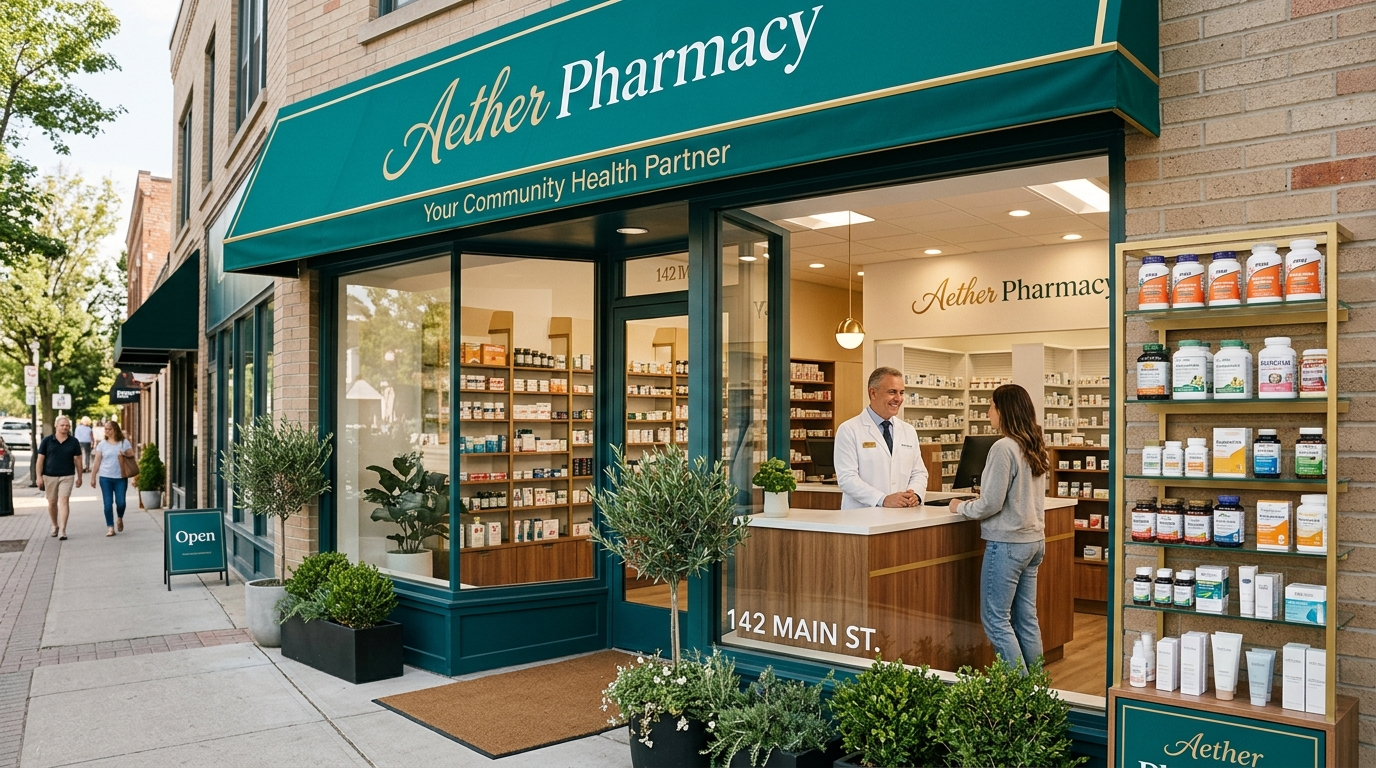
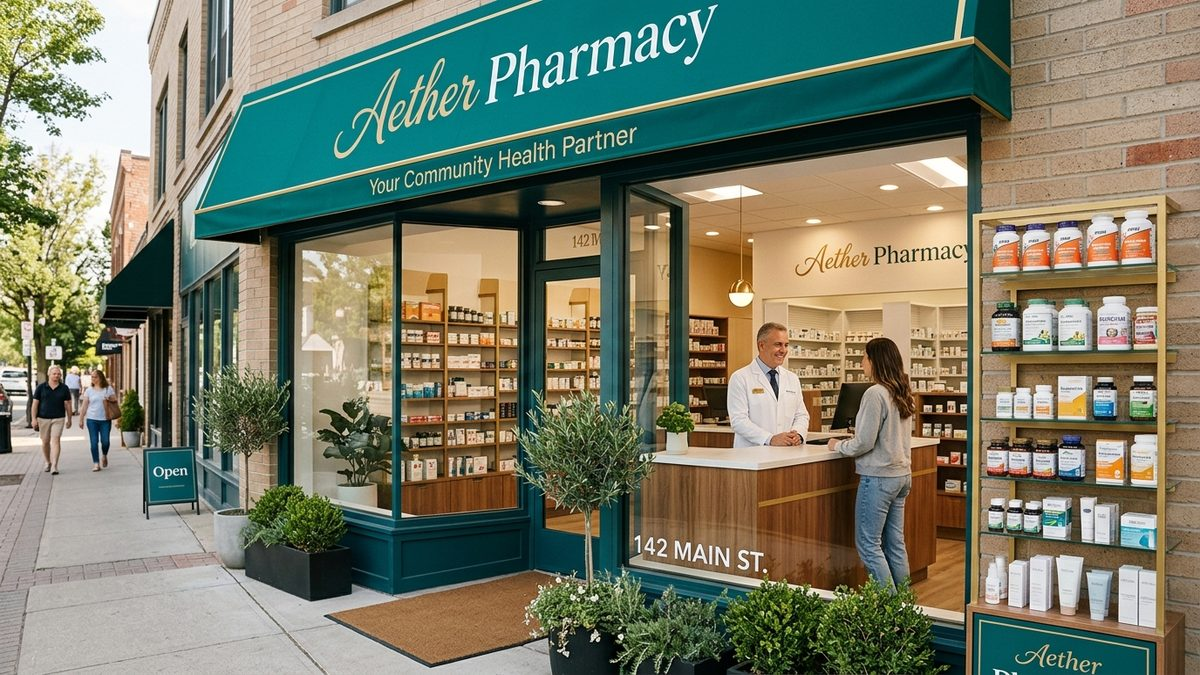
add og image2

diff --git a/app/lib/data.ts b/app/lib/data.ts
@@ -44,7 +44,7 @@ export const pharmacy = {
     "Most major plans",
   ],
   certifications: ["Licensed Texas Pharmacy", "NABP Accredited", "HIPAA Compliant", "Immunization Certified"],
-  siteUrl: "https://aetherpharmacy.com",
+  siteUrl: process.env.NEXT_PUBLIC_SITE_URL || "https://pharmacy-template-tier2.vercel.app",
 };
 
 export const team = [

diff --git a/app/layout.tsx b/app/layout.tsx
@@ -57,6 +57,7 @@ export const metadata: Metadata = {
         url: "/images/og-preview.jpg",
         width: 1200,
         height: 675,
+        type: "image/jpeg",
         alt: `${pharmacy.name} — ${pharmacy.tagline}`,
       },
     ],
